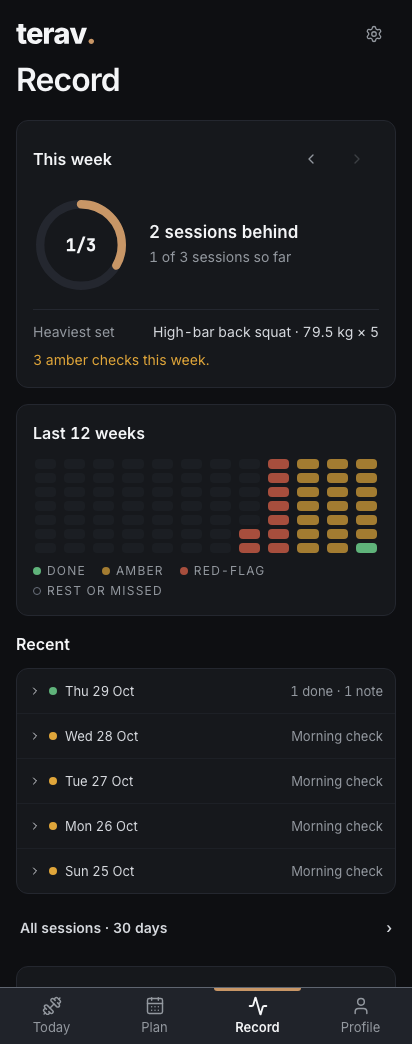
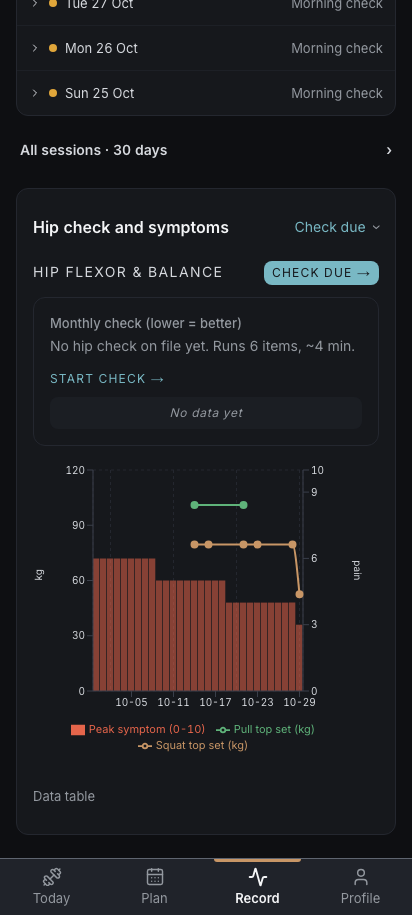
Record rescore fixes (3 -> 7-7.5): no 'behind' mid-week (N left / No sessions planned / closed-week count), one-change progress tile, red note in red, unbroken heaviest-set figure, grid shows trained days as done (red still wins)

diff --git a/next-app/src/components/WeeklyNarrativeTile.tsx b/next-app/src/components/WeeklyNarrativeTile.tsx
@@ -35,15 +35,20 @@ export function WeeklyNarrativeTile({ program }: { program: Program }) {
   const summary = useMemo(() => computeWeekSummary(store, program, anchorDate), [store, program, anchorDate]);
 
   const isCurrentWeek = weekDates(todayISO())[0] === summary.weekStart;
-  const { completed, scheduled, dueSoFar } = summary.sessions;
-  const behind = Math.max(0, dueSoFar - completed);
-  const status = !isCurrentWeek
-    ? completed >= scheduled
-      ? "All planned sessions done"
-      : `${completed} of ${scheduled} planned sessions done`
-    : behind === 0
-      ? "On track"
-      : `${behind} session${behind === 1 ? "" : "s"} behind`;
+  const { completed, scheduled } = summary.sessions;
+  // The rule, stated (rescore 2026-10-29): mid-week there is no "behind" — only what is left; a closed week says how
+  // many planned sessions were done. A week with nothing planned says so instead of "On track" over an empty ring.
+  const left = Math.max(0, scheduled - completed);
+  const status =
+    scheduled === 0
+      ? "No sessions planned"
+      : isCurrentWeek
+        ? left === 0
+          ? "All done this week"
+          : `${left} left this week`
+        : left === 0
+          ? "All planned sessions done"
+          : `${completed} of ${scheduled} planned sessions done`;
   const top = summary.training.topLift;
   const topName = top ? (byId[top.exerciseId] ? exerciseListName(byId[top.exerciseId]) : top.exerciseId.replace(/_/g, " ")) : null;
   const flagged = summary.states.red + summary.states.amber;
@@ -80,16 +85,18 @@ export function WeeklyNarrativeTile({ program }: { program: Program }) {
         <SessionsRing done={completed} of={scheduled} />
         <div className="min-w-0 space-y-1">
           <p className="text-h3 font-semibold text-strong leading-tight">{status}</p>
-          <p className="text-small text-muted">
-            {completed} of {scheduled} session{scheduled === 1 ? "" : "s"} {isCurrentWeek ? "so far" : "done"}
-          </p>
+          {scheduled > 0 ? (
+            <p className="text-small text-muted">
+              {completed} of {scheduled} planned session{scheduled === 1 ? "" : "s"} done
+            </p>
+          ) : null}
         </div>
       </div>
 
       {summary.hasAnyActivity ? (
         <ul className="space-y-2 border-t border-line-soft pt-3 text-small">
           {top && topName ? (
-            <Line label="Heaviest set" value={`${topName} · ${top.weight_kg} kg × ${top.reps}`} />
+            <Line label="Heaviest set" value={topName} figure={`${top.weight_kg} kg × ${top.reps}`} />
           ) : null}
           {summary.training.newBests > 0 ? <Line label="New bests" value={String(summary.training.newBests)} /> : null}
           {summary.endurance.runsCount > 0 ? (
@@ -105,7 +112,7 @@ export function WeeklyNarrativeTile({ program }: { program: Program }) {
             />
           ) : null}
           {flagged > 0 ? (
-            <li className="text-small text-amber">
+            <li className={cn("text-small", summary.states.red > 0 ? "text-red" : "text-amber")}>
               {summary.states.red > 0
                 ? `${summary.states.red} red check${summary.states.red === 1 ? "" : "s"}`
                 : `${summary.states.amber} amber check${summary.states.amber === 1 ? "" : "s"}`}{" "}
@@ -149,11 +156,14 @@ function SessionsRing({ done, of }: { done: number; of: number }) {
   );
 }
 
-function Line({ label, value }: { label: string; value: string }) {
+function Line({ label, value, figure }: { label: string; value: string; figure?: string }) {
   return (
     <li className="flex items-baseline justify-between gap-3">
-      <span className="text-muted">{label}</span>
-      <span className="text-right text-ink">{value}</span>
+      <span className="flex-shrink-0 text-muted">{label}</span>
+      <span className="text-right text-ink">
+        {value}
+        {figure ? <span className="whitespace-nowrap tabular-nums"> · {figure}</span> : null}
+      </span>
     </li>
   );
 }

diff --git a/next-app/src/components/record/CutCLatestRetestTile.tsx b/next-app/src/components/record/CutCLatestRetestTile.tsx
@@ -101,15 +101,6 @@ function pickLatestRetest(
   return { metric: bestMetric, nextRetestInDays };
 }
 
-function formatSinceBaseline(m: RetestValue, retestCount: number): string {
-  if (m.current == null || m.baseline == null) return "";
-  const delta = m.current - m.baseline;
-  const sign = delta > 0 ? "+" : delta < 0 ? "−" : "";
-  const abs = Math.abs(delta);
-  const formatted = m.unit === "seconds" ? `${Math.round(abs)}s` : abs.toFixed(1);
-  return `${sign}${formatted} ${m.unit} since baseline · ${retestCount} retest${retestCount === 1 ? "" : "s"}`;
-}
-
 export function CutCLatestRetestTile({ program, store, className }: CutCLatestRetestTileProps) {
   const picked = useMemo(() => pickLatestRetest(program, store), [program, store]);
 
@@ -129,54 +120,25 @@ export function CutCLatestRetestTile({ program, store, className }: CutCLatestRe
   const readings = readingsForMetric(store, program, metric.metric_id).slice().reverse();
   const prev = readings[1];
 
+  // One reference, one change (founder-feedback round 4 rescore, 2026-10-29): the delta was "since baseline" but
+  // sat beside the value as if it were vs the previous reading, which read as a contradiction. Sentence-case sans
+  // labels, like the rest of Record.
+  const change = delta && delta.value !== 0
+    ? `${delta.value < 0 ? "Down" : "Up"} ${formatMetric(Math.abs(delta.value), metric.unit)} since your first test`
+    : delta
+      ? "Same as your first test"
+      : null;
+
   return (
-    <div
-      className={cn(
-        cardClass(),
-        className,
-      )}
-    >
-      <p className="text-eyebrow font-medium uppercase tracking-widest text-muted mb-2">
-        Latest retest · {metric.display_name}
+    <section className={cn(cardClass(), "space-y-1.5", className)} aria-label={`Progress: ${metric.display_name}`}>
+      <h2 className="text-body font-semibold text-strong">{metric.display_name}</h2>
+      <p className="text-h2 text-strong tabular-nums">{formatMetric(metric.current, metric.unit)}</p>
+      {change ? <p className={cn("text-small", deltaColor)}>{change}</p> : null}
+      <p className="text-small text-muted">
+        {prev ? `Previous ${formatMetric(prev.value, metric.unit)} · ` : ""}
+        {retestCount} test{retestCount === 1 ? "" : "s"}
+        {nextRetestInDays != null ? ` · next in ${nextRetestInDays} day${nextRetestInDays === 1 ? "" : "s"}` : ""}
       </p>
-
-      {/* Metric row: name + value + delta */}
-      <div className="flex items-baseline justify-between gap-2 flex-wrap">
-        <span className="text-small font-semibold text-strong">
-          {metric.display_name}
-        </span>
-        <span className="inline-flex items-baseline gap-2">
-          <span className="text-h2 text-strong font-mono tabular-nums">
-            {formatMetric(metric.current, metric.unit)}
-          </span>
-          {delta ? (
-            <span className={`font-mono text-small tabular-nums ${deltaColor}`}>
-              {delta.value > 0 ? "+" : delta.value < 0 ? "−" : ""}
-              {Math.abs(delta.value).toFixed(1)}
-            </span>
-          ) : null}
-        </span>
-      </div>
-
-      {/* vs-previous line */}
-      {prev ? (
-        <div className="mt-1 flex items-baseline justify-between text-caption text-muted">
-          <span>vs previous ({prev.observed_at})</span>
-          <span className="mono">{formatMetric(prev.value, metric.unit)}</span>
-        </div>
-      ) : null}
-
-      {/* Since-baseline tenure line */}
-      <p className="mt-1 font-mono text-eyebrow uppercase tracking-widest text-muted tabular-nums">
-        {formatSinceBaseline(metric, retestCount)}
-      </p>
-
-      {/* Next-retest chip */}
-      {nextRetestInDays != null ? (
-        <p className="mt-2 text-right text-eyebrow text-muted font-mono tabular-nums">
-          Next test in {nextRetestInDays} day{nextRetestInDays === 1 ? "" : "s"}
-        </p>
-      ) : null}
-    </div>
+    </section>
   );
 }

diff --git a/next-app/src/components/ui/WeeklyHeatmap.tsx b/next-app/src/components/ui/WeeklyHeatmap.tsx
@@ -60,10 +60,13 @@ export function dayCellState(
       }
     | undefined,
 ): WeeklyHeatmapCellState {
-  if (log?.derived_state) return log.derived_state as WeeklyHeatmapCellState;
+  // Red first (a safety signal stays visible even on a day trained anyway); then work done; then the check. Before
+  // 2026-10-29 any check won, so a trained day with an amber check read amber and done work vanished from the grid.
+  if (log?.derived_state === "red") return "red";
   const trained =
     Object.values(log?.exercises ?? {}).some((e) => e.done) || (log?.runs?.length ?? 0) > 0;
-  return trained ? "green" : "none";
+  if (trained) return "green";
+  return (log?.derived_state as WeeklyHeatmapCellState | null | undefined) || "none";
 }
 
 // Batch 36 P0 fix (visual-craft audit) — "green" was mapped to bg-bronze
@@ -172,8 +175,8 @@ export function WeeklyHeatmap({
 function Legend() {
   const items: { label: string; cls: string }[] = [
     { label: "Done", cls: STATE_CLASS.green },
-    { label: "Amber", cls: STATE_CLASS.amber },
-    { label: "Red-flag", cls: STATE_CLASS.red },
+    { label: "Amber check", cls: STATE_CLASS.amber },
+    { label: "Red check", cls: STATE_CLASS.red },
     { label: "Rest or missed", cls: STATE_CLASS.rest },
   ];
   return (

diff --git a/next-app/src/components/ui/WeeklyHeatmap.daycell.test.ts b/next-app/src/components/ui/WeeklyHeatmap.daycell.test.ts
@@ -3,7 +3,9 @@ import { dayCellState } from "./WeeklyHeatmap";
 
 describe("dayCellState", () => {
   it("uses the morning check when there is one", () => {
-    expect(dayCellState({ derived_state: "amber", exercises: { a: { done: true } } })).toBe("amber");
+    expect(dayCellState({ derived_state: "amber", exercises: { a: { done: true } } })).toBe("green");
+    expect(dayCellState({ derived_state: "amber" })).toBe("amber");
+    expect(dayCellState({ derived_state: "red", exercises: { a: { done: true } } })).toBe("red");
   });
   it("counts a trained day without a check as done", () => {
     expect(dayCellState({ exercises: { a: { done: true } } })).toBe("green");

diff --git a/dev/active/founder-feedback-2026-10-29/21-r4-rescore-coach.md b/dev/active/founder-feedback-2026-10-29/21-r4-rescore-coach.md
@@ -1,0 +1,10 @@
+# Record rescore, coach lens (honest + useful numbers). Score: 7/10 (was 3)
+
+Big gain: one week headline, one grid, focus metric only with data, history behind a tap. Remaining:
+
+- [H] "On track" / "N behind" has no visible rule: strength 1/2 reads "On track", hip 1/3 reads "2 sessions behind" mid-week, handstand 0/0 reads "On track" → state the rule in one line (behind only once the remaining days can't fit the remaining sessions); 0 planned = "No sessions planned", not "On track"; ring at 0/0 should be hidden.
+- [H] Grid colour mixes two things: done (green) vs check state (amber/red). A trained day with an amber check shows amber, hip grid has almost no green, so completed work is invisible and the grid reads as "failure" → show done as fill, check state as a dot/ring (or colour = session done, border = check), and label week/day axes.
+- [M] Delta stacking on the metric card is confusing: "+12.0 since baseline" and "Avg 106 +6.0 since 2026-09-28" on the same card, handstand "+12S SECONDS" and "+6.0" with no unit, y-axis 100–108 unitless against a 1:52 value → one delta, always with units (s / reps / bpm), format axis like the value.
+- [M] Strength HR card contradicts itself: "139 bpm -2.0" vs previous 113 bpm (would be +26); rolling chart reads 135–141 → show previous retest consistently with the headline (or the same rolling basis) so the delta can be recomputed by eye; same check for pull-up (112 vs prev 106 = +6, headline says +12 = since baseline, OK but say "baseline 100").
+- [M] "Heaviest set" is the max across unrelated lifts (block pull 125 kg beats everything) so it is neither a best nor comparable → show per-lift top set vs last week (+/- kg) or only flag real new bests; drop when nothing changed.
+- [L] Recent rows say "1 done" / "Morning check" without naming the session or what was done → show session name + top set or RPE in the collapsed row.

diff --git a/dev/active/founder-feedback-2026-10-29/20-r4-rescore-visual.md b/dev/active/founder-feedback-2026-10-29/20-r4-rescore-visual.md
@@ -1,0 +1,10 @@
+# Record rescore - visual craft (was 3, now 7.5/10)
+
+Hierarchy is now right: Record title > "This week" card with ring + verdict > one grid > one metric > Recent. One accent (bronze ring), semantic green/amber/red only in the grid and dots. Cards share one radius, border and 16px gutter.
+
+- [H] Metric tile and chart switch to a second voice: mono, all-caps, wide-tracked labels ("LATEST RETEST · SUBMAX HR — EASY-EFFORT AVG" wraps to two lines at 412; "84-DAY ROLLING ... HIGHER IS BETTER" likewise) and mono axis/legend text at about 10-11px, while the rest of the screen is sans → sentence-case sans label ("Latest retest"), name on its own line, tabular-nums sans for the figures; axis 11px muted; drop the chart's second caption line.
+- [M] Colour semantics slip: "1 red check this week." is set in amber, and the ring is a full bronze circle on a week that holds a red day → red text for red checks, amber for amber; keep the ring bronze but the note must match the grid colour.
+- [M] "This week" label/value rows wrap badly: "Heaviest set" breaks onto 2 lines and the value wraps "125 kg × / 5" → stack label above value, or shorten to "Block pull 125 kg × 5" with the variant as muted sub-line.
+- [M] Grid legend is 4 mono caps items that wrap to 2 rows, and "Rest or missed" shows a hollow dot that matches no cell (empty cells are dark filled squares) → sentence case, 3 items (Done / Amber / Red), empty cells need no legend entry.
+- [L] Grid cells read as stacked bars: rows are about 4px apart with square cells; the older empty columns make a heavy dark block on the left → 2px more gap, and trim the empty columns or fade them to about 50%.
+- [L] Rhythm is uneven: 24px above "Recent" vs 16px between cards, and "All sessions" sits outside the card with its own padding (left edge 20px vs 16px) → put it as the card's last row, or align to 16px.

diff --git a/dev/active/founder-feedback-2026-10-29/19-r4-rescore-design-lead.md b/dev/active/founder-feedback-2026-10-29/19-r4-rescore-design-lead.md
@@ -1,0 +1,10 @@
+# R4 rescore, design lead. Record: 7/10 (was 3)
+
+The page now answers "how is my week" first, then shows one grid, then history behind a tap. The rewrite worked; what remains is correctness of signals and legibility.
+
+- [H] "On track" / "2 sessions behind" is judged mid-week. Hip shows "2 sessions behind" at 1/3 with the week unfinished, which is a scold, and for a rehab user with amber checks it pushes against the safety gate. Fix: compare against sessions due so far (pace), say "1 of 3 · 2 left this week", and reserve "behind" for closed weeks.
+- [H] Strength shows a green delta (-2.0) on a "139 bpm" tile whose "vs previous" is 113, so the tile contradicts itself. For HR, lower is better, so the sign colour logic needs checking, and the baseline vs previous lines must agree. Fix: one delta, direction-aware colour, one reference.
+- [M] The 12-week grid has no axes (no week or weekday labels, no today marker), and "REST OR MISSED" is a hollow dot that matches no visible cell. Fix: label week columns and weekday rows, mark the current week, and drop or restyle the legend entry.
+- [M] "1 red check this week." is rendered in amber, and 1/1 reads as success with "On track" right above it. Fix: red text for red, and put the red note ahead of the green headline or soften the headline.
+- [L] Recent rows show a status dot with no key and a bare chevron; "1 done · 1 note" is terse. Fix: dots reuse the grid legend, or the row says "Morning check · amber".
+- [L] The pull-up curve starts its y-axis at 100 and the chart is large for 3 data points. Fix: hide the curve until there are 4 or more readings and show the tile only.

diff --git a/dev/active/founder-feedback-2026-10-29/22-r4-rescore-copy.md b/dev/active/founder-feedback-2026-10-29/22-r4-rescore-copy.md
@@ -1,0 +1,9 @@
+# Record rescore, copy and scannability lens (was 3, now 7/10)
+Evidence: shots/r4/strength-record, hip-record, pullup-record. Top of page now reads in one glance; remaining flaws are wording and contradictions.
+
+- [H] "On track" beside "1 red check this week." (pullup, strength) reads as a contradiction, and hip says "2 sessions behind" at 1/3 with the week unfinished → name the state by time: "1 of 3 done · 2 left" when the week is open; "Behind" only once the week is over.
+- [H] Retest tile math is unreadable: "139 bpm -2.0", "vs previous 113 bpm", "-2.0 BPM SINCE BASELINE" → one line "139 bpm, down 2 from baseline" plus "Previous 113 bpm (27 Oct)"; show the unit on the delta, and drop the ".0" on reps ("+12 reps").
+- [M] "1 of 2 sessions so far" repeats the ring (1/2) → replace with what's left: "1 left this week".
+- [M] Mono, tracked all-caps eyebrows ("84-DAY ROLLING STRICT PULL-UP MAX REPS · HIGHER IS BETTER", "LATEST RETEST · SUBMAX HR — EASY-EFFORT AVG") wrap to two lines and repeat the metric name already shown → "Strict pull-up max reps" in sentence case; move "higher is better" to a small caption or arrow.
+- [M] Recent rows are mostly the bare label "Morning check" (hip, pullup) → say the result: "Morning check · amber, left groin" so the row is worth expanding.
+- [L] Legend "REST OR MISSED" lumps a planned rest day with a miss, and "Heaviest set" wraps ("Block pull, mid-shin height · 125 kg × 5") → "Rest day / no log"; trim to "Block pull · 125 kg × 5".

diff --git a/dev/active/founder-feedback-2026-10-29/BRIEF-4-RESCORE.md b/dev/active/founder-feedback-2026-10-29/BRIEF-4-RESCORE.md
@@ -1,0 +1,17 @@
+# Record rescore after the round-4 build (live 1e18ab0 + 7afcd3f)
+
+Your round-4 report (`15`–`18-r4-*.md`) and the consensus (`00-summary-r4.md`) are what was built. Evidence: ONLY the
+live captures in `shots/r4/` (412×915; full-page captures show the fixed bottom nav mid-page — ignore that):
+`strength-record.png` (CSM persona), `hip-record.png` + `hip-record-hip-open.png` + `hip-history.png` (hip persona),
+`pullup-record.png`, `handstand-record.png`. Persona data is synthetic (the strength persona has logs on future
+dates — a harness artefact, ignore it).
+
+Built: "This week" card (sessions ring done/planned, "On track" / "N sessions behind" with red-check days not counted
+as misses, heaviest set by exercise name, real new bests, outside sessions, one-line amber/red note); one "Last 12
+weeks" grid; the focus-metric tile + curve only when readings exist (no zoom tabs, no timeline); "Recent" = last 5
+days + "All sessions · N days ›" to `/record/history/` (with Export); hip views collapsed at the bottom
+("Hip check and symptoms", "Check due"); NOW/TREND/LOG dividers, intro, empty cards, 0/30 rehab card, footer cut.
+Also fixed: the bottom-nav padding class was never generated, so the last card on every tab page sat under the nav.
+
+Score Record 1–10 now (you gave 3 before). What is still wrong, as `- [B/H/M/L] issue → fix`, max 6. Write
+`<NN>-r4-rescore-<lens>.md` (≤ 20 lines). Reply with the score and top 2 remaining issues only. Don't edit code.
